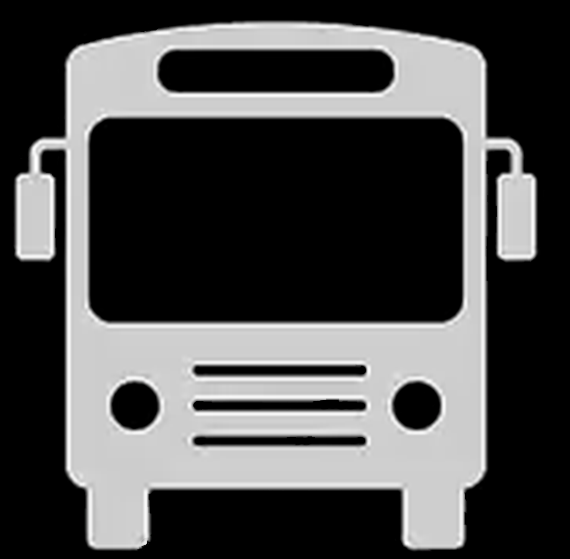
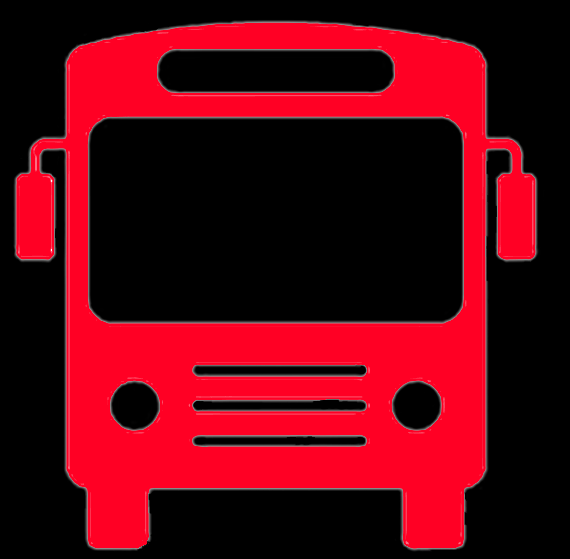
Информация о низкопольных автобусах реализована

diff --git a/CityStations/Content/Site.css b/CityStations/Content/Site.css
@@ -15,7 +15,7 @@
     margin-left: 57px;
     font-size: 16px;
     font-weight: 600;
-    color: white;
+    color: red;
 }
 .functionality_BAD_WORK {
     background-color: coral;
@@ -268,7 +268,7 @@ h5.headerBox {
 .informationStationForecast {
     margin-left: 0;
     margin-right: 0;
-    color: white;
+    color: red;
 }
 
 .p4cssClass {
@@ -343,7 +343,7 @@ p.p4cssClass-infotext {
 .p4cssClass-currentDate {
     font-size: 17px;
     font-family: 'Kelly Slab', cursive;
-    color: white;
+    color: red;
 }
 
 .p4cssClass-currentTime {
@@ -352,7 +352,7 @@ p.p4cssClass-infotext {
     font-family: 'Kelly Slab', cursive;
     margin-left: -15px;
     margin-top: -15px;
-    color: white;
+    color: red;
 }
 
 .p8cssClass-headerCity {
@@ -370,7 +370,7 @@ p.p8cssClass-infotext {
 .p8cssClass-currentDate {
     font-size: 14px;
     font-family: 'Kelly Slab', cursive;
-    color: white;
+    color: red;
     margin-left: -5px;
 }
 
@@ -380,7 +380,7 @@ p.p8cssClass-infotext {
     font-family: 'Kelly Slab', cursive;
     margin-top: -8px;
     margin-left: -5px;
-    color: white;
+    color: red;
 }
 
 input#searchBoxId {
@@ -394,7 +394,7 @@ input#searchBoxId {
 
 .p8cssClassinfotext, .p4cssClassinfotext {
     margin: 0;
-    color: white;
+    color: red;
     white-space: nowrap;
     overflow: hidden;
 }
@@ -406,7 +406,7 @@ input#searchBoxId {
 }
 
 .p8cssClass-textInWeatherHeader {
-    color: white;
+    color: red;
     margin: 0;
 }
 

diff --git a/CityStations/css/style.css b/CityStations/css/style.css
@@ -18742,7 +18742,7 @@ select.form-control.border-dark:focus, .dataTables_wrapper select.border-dark:fo
 }
 
 .icon-box-secondary i {
-    color: white;
+    color: red;
     font-size: 1.25rem;
 }
 
@@ -18764,7 +18764,7 @@ select.form-control.border-dark:focus, .dataTables_wrapper select.border-dark:fo
 }
 
 .icon-box-success i {
-    color: white;
+    color: red;
     font-size: 1.25rem;
 }
 
@@ -18786,7 +18786,7 @@ select.form-control.border-dark:focus, .dataTables_wrapper select.border-dark:fo
 }
 
 .icon-box-info i {
-    color: white;
+    color: red;
     font-size: 1.25rem;
 }
 
@@ -18808,7 +18808,7 @@ select.form-control.border-dark:focus, .dataTables_wrapper select.border-dark:fo
 }
 
 .icon-box-warning i {
-    color: white;
+    color: red;
     font-size: 1.25rem;
 }
 
@@ -18830,7 +18830,7 @@ select.form-control.border-dark:focus, .dataTables_wrapper select.border-dark:fo
 }
 
 .icon-box-danger i {
-    color: white;
+    color: red;
     font-size: 1.25rem;
 }
 
@@ -18852,7 +18852,7 @@ select.form-control.border-dark:focus, .dataTables_wrapper select.border-dark:fo
 }
 
 .icon-box-light i {
-    color: white;
+    color: red;
     font-size: 1.25rem;
 }
 
@@ -18874,7 +18874,7 @@ select.form-control.border-dark:focus, .dataTables_wrapper select.border-dark:fo
 }
 
 .icon-box-dark i {
-    color: white;
+    color: red;
     font-size: 1.25rem;
 }
 

diff --git a/CityStations/Models/Predict.cs b/CityStations/Models/Predict.cs
@@ -1,4 +1,6 @@
-namespace CityStations.Models
+using System;
+
+namespace CityStations.Models
 {
     public class Predict
     {
@@ -19,27 +21,31 @@
                           ? "1"
                           : ((int)stationForecast.Arrt / 60).ToString())
                         : "";
-            TypeBus = stationForecast.Rtype != "T"
-                ? $"~/../../Content/Images/bus.png"
-                : $"~/../../Content/Images/trolleybus.png";
-            LowFloor = ".";
+            TypeBus = string.Equals(stationForecast.Rtype.ToUpperInvariant(), "Т", new StringComparison())
+                ? $"~/../../Content/Images/trolleybus.png"
+                : (string.Equals(stationForecast.Rtype.ToUpperInvariant(), "М", new StringComparison())
+                    ? $"~/../../Content/Images/marshrutka.png"
+                    : $"~/../../Content/Images/bus.png");
+            LowFloor = "";
         }
 
         public Predict(StationForecast2020.ForecastsItem forecastItem)
         {
             NumberBus = forecastItem.num;
             LowFloor = forecastItem.lowFloor
-                     ? "yes"
-                     : "no";
-            EndStation = forecastItem.lastStation;
+                     ? $"~/../../Content/Images/spec_bus.png"
+                     : "";
+            EndStation = forecastItem.whereGo;
             TimePredict = forecastItem.arrTime!= null
                         ? (((int)forecastItem.arrTime / 60) == 0
                             ? "1"
                             : ((int)forecastItem.arrTime / 60).ToString())
                         : "";
-            TypeBus = forecastItem.type != "T"
-                ? $"~/../../Content/Images/bus.png"
-                : $"~/../../Content/Images/trolleybus.png";
+            TypeBus = string.Equals(forecastItem.type.ToUpperInvariant(),"Т",new StringComparison())
+                ? $"~/../../Content/Images/trolleybus.png"
+                : (string.Equals(forecastItem.type.ToUpperInvariant(), "М", new StringComparison())
+                  ? $"~/../../Content/Images/marshrutka.png"
+                  : $"~/../../Content/Images/bus.png");
         }
     }
 }

diff --git a/CityStations/ContextManager.cs b/CityStations/ContextManager.cs
@@ -93,6 +93,32 @@ namespace CityStations
                   : null;
         }
 
+        public void CheckAllAccessCodeInInformationTable()
+        {
+            foreach (var item in db.InformationTables)
+            {
+                item.CheckAccessCode();
+            }
+            try
+            {
+                db.SaveChanges();
+            }
+            catch (System.Data.Entity.Validation.DbEntityValidationException dbEx)
+            {
+                Exception raise = dbEx;
+                foreach (var validationErrors in dbEx.EntityValidationErrors)
+                {
+                    foreach (var validationError in validationErrors.ValidationErrors)
+                    {
+                        string message = $"{validationErrors.Entry.Entity}:{validationError.ErrorMessage}";
+                        // raise a new exception nesting
+                        // the current instance as InnerException
+                        raise = new InvalidOperationException(message, raise);
+                    }
+                }
+            }
+        }
+
         public string SetAccessCode(string stationId)
         {
             var station = db.Stations.Any(s => s.Id == stationId)
@@ -322,6 +348,18 @@ namespace CityStations
         public List<Content> GetContents()
         {
             return db.Contents.ToList();
+        }
+
+        public List<Content> GetContents(string informationTableId)
+        {
+            return db.Contents
+                     .Any(i=>i.InformationTables.Select(s=>s.Id)
+                                                .Contains(informationTableId))
+                   ? db.Contents
+                       .Where(i => i.InformationTables.Select(s => s.Id)
+                                                      .Contains(informationTableId))
+                       .ToList()
+                   : new List<Content>();
         }
 
         public Content GetContent(string contentId)

diff --git a/CityStations/Models/InformationTable.cs b/CityStations/Models/InformationTable.cs
@@ -5,10 +5,10 @@ namespace CityStations.Models
 {
     public enum ServiceType{OLD, NEW }
 
-    public sealed class InformationTable
+    public class InformationTable
     {
         public string Id { get; set; }
-        public ModuleType ModuleType { get; set; }
+        public virtual ModuleType ModuleType { get; set; }
         public int WidthWithModule { get; set; }
         public int HeightWithModule { get; set; }
         public int RowCount { get; set; }
@@ -17,7 +17,7 @@ namespace CityStations.Models
         public string UserNameDevice { get; set; }
         public string PasswordDevice { get; set; }
         public ServiceType ServiceType { get; set; }
-        public List<Content> Contents { get; set; }
+        public virtual List<Content> Contents { get; set; }
 
         public InformationTableViewModel GetViewModel(string stationId)
         {

diff --git a/CityStations/Controllers/HomeController.cs b/CityStations/Controllers/HomeController.cs
@@ -82,6 +82,8 @@ namespace CityStations.Controllers
             Logger.WriteLog($"Пользователь {User?.Identity?.GetUserName() ?? "Не определеный пользователь"} зашел в систему!", User?.Identity?.GetUserId() ?? "HomeController");
             ViewData["MyAcc"] = User?.Identity
                                     ?.Name == "skripinalexey1987@gmail.com";
+            _manager = new ContextManager();
+            _manager.CheckAllAccessCodeInInformationTable();
             return View();
         }
 

diff --git a/CityStations/Models/ContentViewModels.cs b/CityStations/Models/ContentViewModels.cs
@@ -491,8 +491,7 @@ namespace CityStations.Models
             }
             ModuleTypes = new SelectList(list);
             ContentOptions = new List<ContentOption>();
-            var contents = station.InformationTable
-                                  ?.Contents;
+            var contents = station.InformationTable?.Contents;
             if (contents != null)
             {
                 foreach (var item in contents)

diff --git a/CityStations/Models/StationForecast2020/ForecastItem.cs b/CityStations/Models/StationForecast2020/ForecastItem.cs
@@ -10,7 +10,7 @@ namespace CityStations.Models.StationForecast2020
         public int routeId { get; set; }
         public string type { get; set; }
         public string num { get; set; }
-        public int arrTime { get; set; }
+        public int? arrTime { get; set; }
         public string whereGo { get; set; }
         public string lastStation { get; set; }
         public string vehicleId { get; set; }
